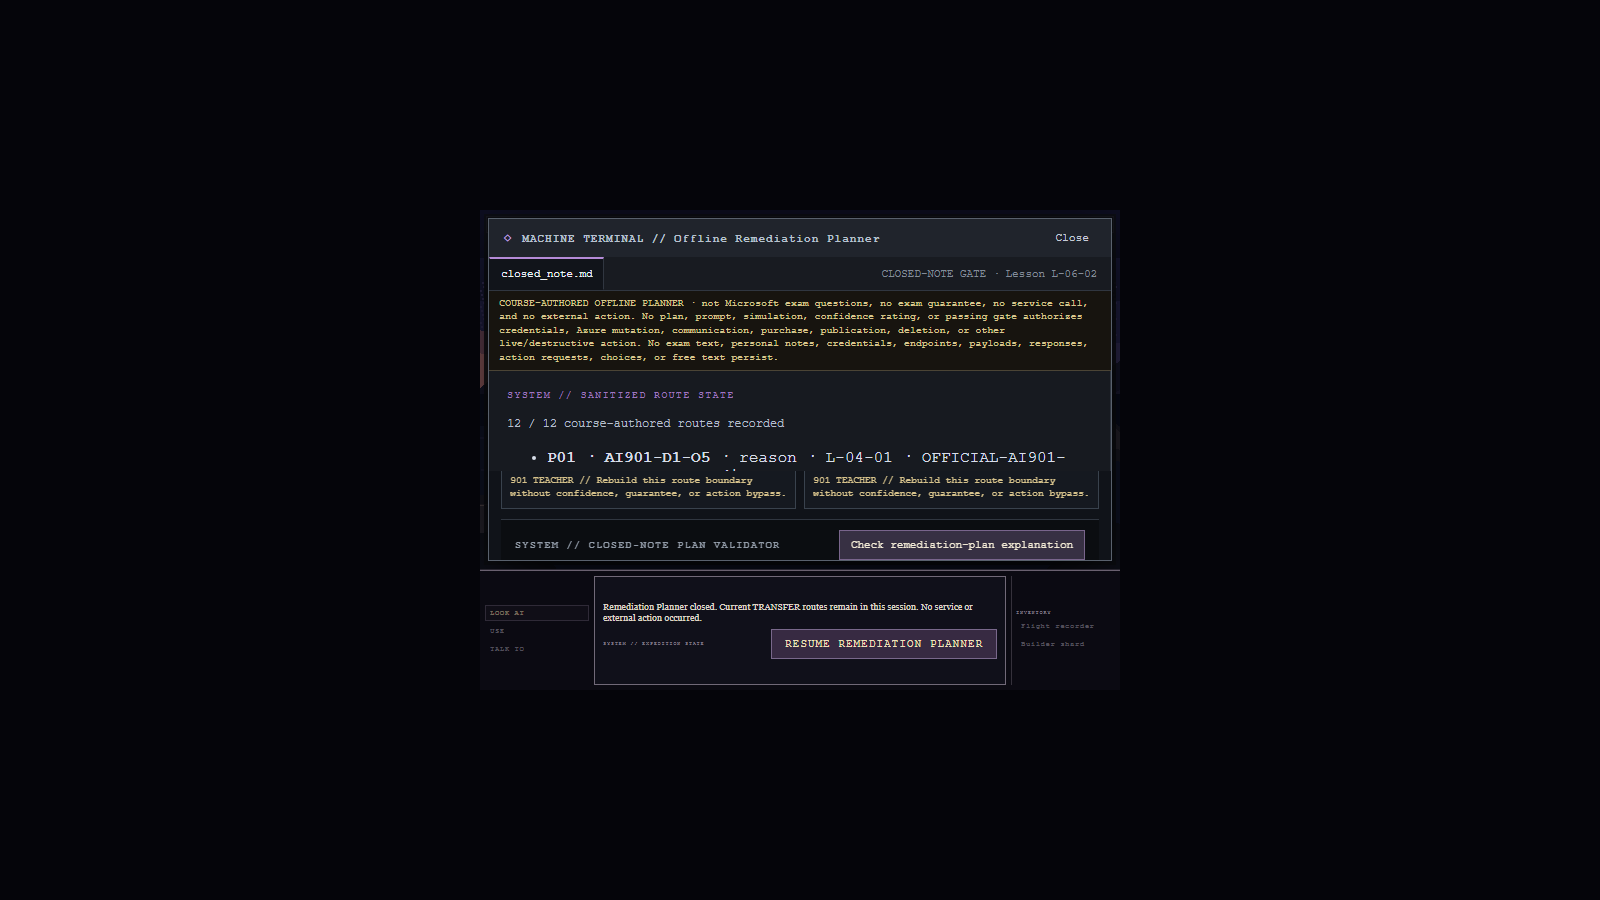
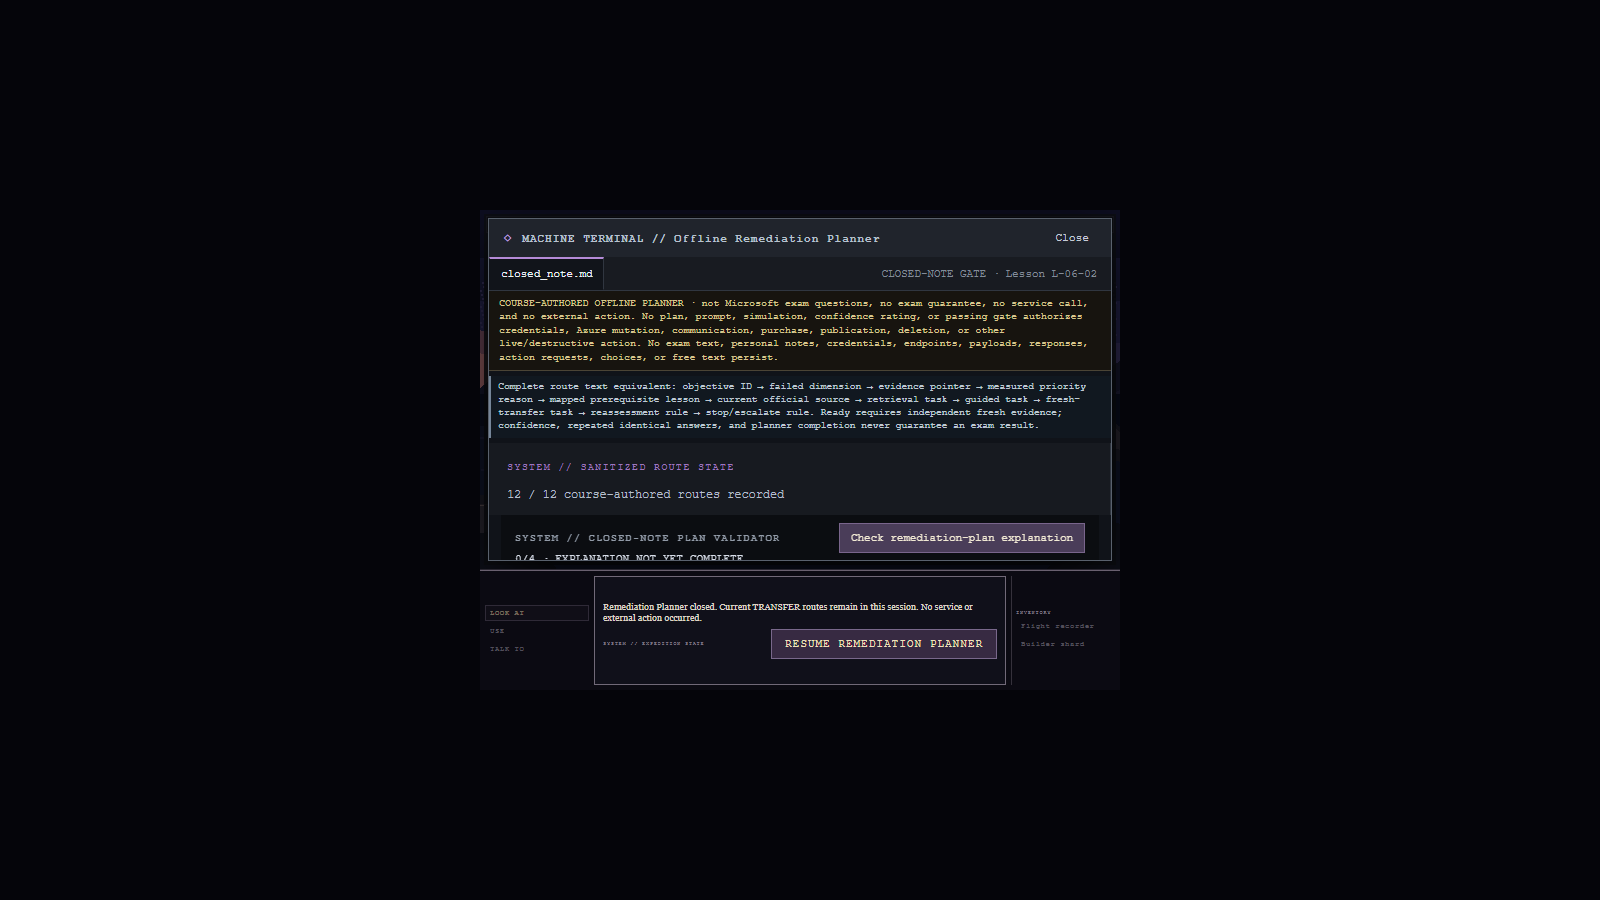
Round 24 step 6 Pixel Patrol Agent checkpoint

Changed region(s): [[0.3125, 0.4044, 0.6875, 0.6222], [0.3125, 0.5911, 0.5, 0.6222]]

diff --git a/horizon-archive-game/src/styles.css b/horizon-archive-game/src/styles.css
@@ -571,6 +571,10 @@ h1 {
 .objective-ledger-panel { min-height: 0; overflow: auto; }
 .objective-ledger-explanation { grid-template-columns: repeat(4, minmax(0, 1fr)); }
 .canonical-game-frame[data-canonical-layout="narrow"] .objective-ledger-explanation { grid-template-columns: 1fr; }
+.remediation-planner-workspace { grid-template-rows: auto auto minmax(72px, 0.65fr) minmax(0, 1.35fr); overflow: auto; }
+.remediation-route-queue { min-height: 0; overflow: auto; }
+.remediation-planner-explanation { grid-template-columns: repeat(4, minmax(0, 1fr)); }
+.canonical-game-frame[data-canonical-layout="narrow"] .remediation-planner-explanation { grid-template-columns: 1fr; }
 .bridge-retrieval { overflow: auto; }
 .bridge-retrieval fieldset { margin: 6px 0; padding: 6px; color: #aeb7c3; border: 1px solid #39424d; font-size: 0.6rem; }
 .bridge-retrieval label { display: block; margin: 4px 0; }

diff --git a/Pixel Patrol/WORK_LOG.md b/Pixel Patrol/WORK_LOG.md
@@ -1,5 +1,13 @@
 # Pixel Patrol Work Log
 
+## 2026-07-12 — Offline Remediation Planner final visual gate
+
+- **Completed:** audited complete Remediation Planner primary, transfer, closed-note, and mastered flow. Corrected one essential layout defect: its four-child workspace inherited a two-row grid and hid the eleven-field route equivalent. Added explicit warning/equivalent/queue/form rows, contained queue scrolling, and canonical/narrow explanation columns. The six planning boundaries, 12 route records, stop/escalate, evidence reassessment, confidence-not-mastery, ownership, focus, Continue handoff, and square-pixel chrome are now coherent.
+- **Files changed:** `horizon-archive-game/src/styles.css`, `Pixel Patrol/PIXEL_METRICS.md`, `Pixel Patrol/UI_AND_TYPE_SPEC.md`, `Pixel Patrol/QA_CHECKLIST.md`, this log, and regenerated Planner captures.
+- **Validation:** all 142 unit tests, production build, and full title-to-credits E2E pass with zero runtime errors. Post-fix inspection confirms the route equivalent is visible and ordered at canonical and closed-note presentation; E2E confirms both 12/12 forms, 12 sanitized routes, stop/escalate, confidence/guarantee rejection, privacy, direct/reload Continue focus, and credits.
+- **Next recommended item:** Location Scout should render twelve route records as a compact switching ledger, with eleven ordered fields encoded as a left-to-right trace and stop/escalate as a visibly terminal branch.
+- **Unresolved risks:** the complete warning dominates the first 320 x 240 viewport by design. Separately, the build remains above the 500 kB advisory threshold; no capture or interaction defect was observed.
+
 ## 2026-07-12 — Offline Objective Ledger final visual gate
 
 - **Completed:** audited complete Objective Ledger primary, transfer, closed-note, and mastered flow. Corrected one essential layout defect: the four-child ledger workspace inherited a two-row grid and hid the domain equivalent. Added explicit warning/domain/ledger/form rows, contained ledger scrolling, and canonical/narrow explanation columns. The 15-objective status/evidence density, concept-versus-implementation split, objective remediation, confidence-not-mastery, Pilot/System/Teacher ownership, focus, Continue handoff, and square-pixel chrome are now coherent.

diff --git a/Pixel Patrol/QA_CHECKLIST.md b/Pixel Patrol/QA_CHECKLIST.md
@@ -158,6 +158,12 @@ Run at native 640 x 480, 2x 1280 x 960, the 320 x 240 alternate layout, and a no
 - [ ] Confidence and domain averages never render as mastery; Teacher remediation names the current objective.
 - [ ] Objective Ledger captures remain byte-distinct across canonical, narrow, and host context; ledger and form remain traversable.
 - [ ] Direct/restored strict mastery moves focus to Continue with Pilot/System/Teacher separation intact.
+- [ ] Planner warning, eleven-field equivalent, 12-route queue, and form occupy four explicit ordered rows without overlap.
+- [ ] Twelve route records expose objective, failed dimension, lesson/source, and reassessment status.
+- [ ] Retrieval -> guided repair -> fresh transfer -> independent reassessment -> stop/escalate remains ordered.
+- [ ] Confidence, repeated answers, planner completion, and guarantees never render as mastery.
+- [ ] Planner captures remain byte-distinct across canonical, narrow, and host context; queue and form remain traversable.
+- [ ] Direct/restored strict mastery moves focus to Continue with Pilot/System/Teacher separation intact.
 - [ ] Visual Pattern offline/no-action warning and six-boundary equivalent remain persistent, ordered, and non-overlapping.
 - [ ] Analysis, multimodal prompting, generation, request validation, result/provenance, and authority boundaries remain distinct.
 - [ ] Operation status/result shapes remain honest; fabricated success or media receives Teacher remediation separate from System score.

diff --git a/Pixel Patrol/UI_AND_TYPE_SPEC.md b/Pixel Patrol/UI_AND_TYPE_SPEC.md
@@ -222,3 +222,9 @@ Every failure response contains: what the Machine observed, one bounded cue, and
 - Preserve reading order: Machine/file/status -> course-authored/not-exam/no-guarantee warning -> Domain 1 concept/capability versus Domain 2 implementation equivalent -> System 15-objective ledger -> Pilot evidence choice/prose -> neutral System validator -> objective-specific Teacher remediation.
 - Each objective displays READY, REMEDIATE, or NOT YET ASSESSED plus its own lesson evidence pointer or explicit absence. Domain averages and confidence never equal objective readiness or mastery.
 - The ledger is a contained scroller above the contained form; neither may cover the warning or domain equivalent. Continue receives focus after direct or restored strict mastery.
+
+## Offline Remediation Planner hierarchy
+
+- Preserve reading order: Machine/file/status -> course-authored/not-exam/no-guarantee warning -> eleven-field route equivalent -> System 12-route queue -> Pilot route/prose -> neutral System validator -> gap-specific Teacher reconstruction/escalation.
+- Route order is objective, failed dimension, evidence pointer, measured priority, prerequisite lesson, current official source, retrieval, guided practice, fresh transfer, independent reassessment, then stop/escalate.
+- Confidence, repeated answers, domain averages, planner completion, and guarantees never create mastery. The queue and form are contained scrollers and cannot cover persistent boundaries.

diff --git a/Pixel Patrol/PIXEL_METRICS.md b/Pixel Patrol/PIXEL_METRICS.md
@@ -148,3 +148,9 @@ At 1x capture:
 - Objective Ledger uses four explicit rows: course-authored/not-exam/no-guarantee warning, domain/status equivalent, contained 15-objective ledger, then contained scenario or closed-note form. All four remain ordered and independently traversable.
 - At 640 x 480 the domain equivalent and at least one ledger row remain visible with the validator region. At 320 x 240 the complete warning leads; domain, ledger, and form remain reachable by vertical traversal.
 - Closed note uses four domain/safeguard fields in one canonical row and one narrow column. Outer Machine/file/status chrome remains fixed.
+
+## Offline Remediation Planner viewport contract
+
+- Planner uses four explicit rows: course-authored/not-exam/no-guarantee warning, eleven-field route equivalent, contained 12-route queue, then contained scenario or closed-note form. All remain ordered and independently traversable.
+- At 640 x 480 the complete route equivalent, route count, and validator remain visible. At 320 x 240 the complete warning leads; route equivalent, queue, and form remain reachable vertically.
+- Closed note uses four route/safeguard fields in one canonical row and one narrow column. Outer Machine/file/status chrome remains fixed.
